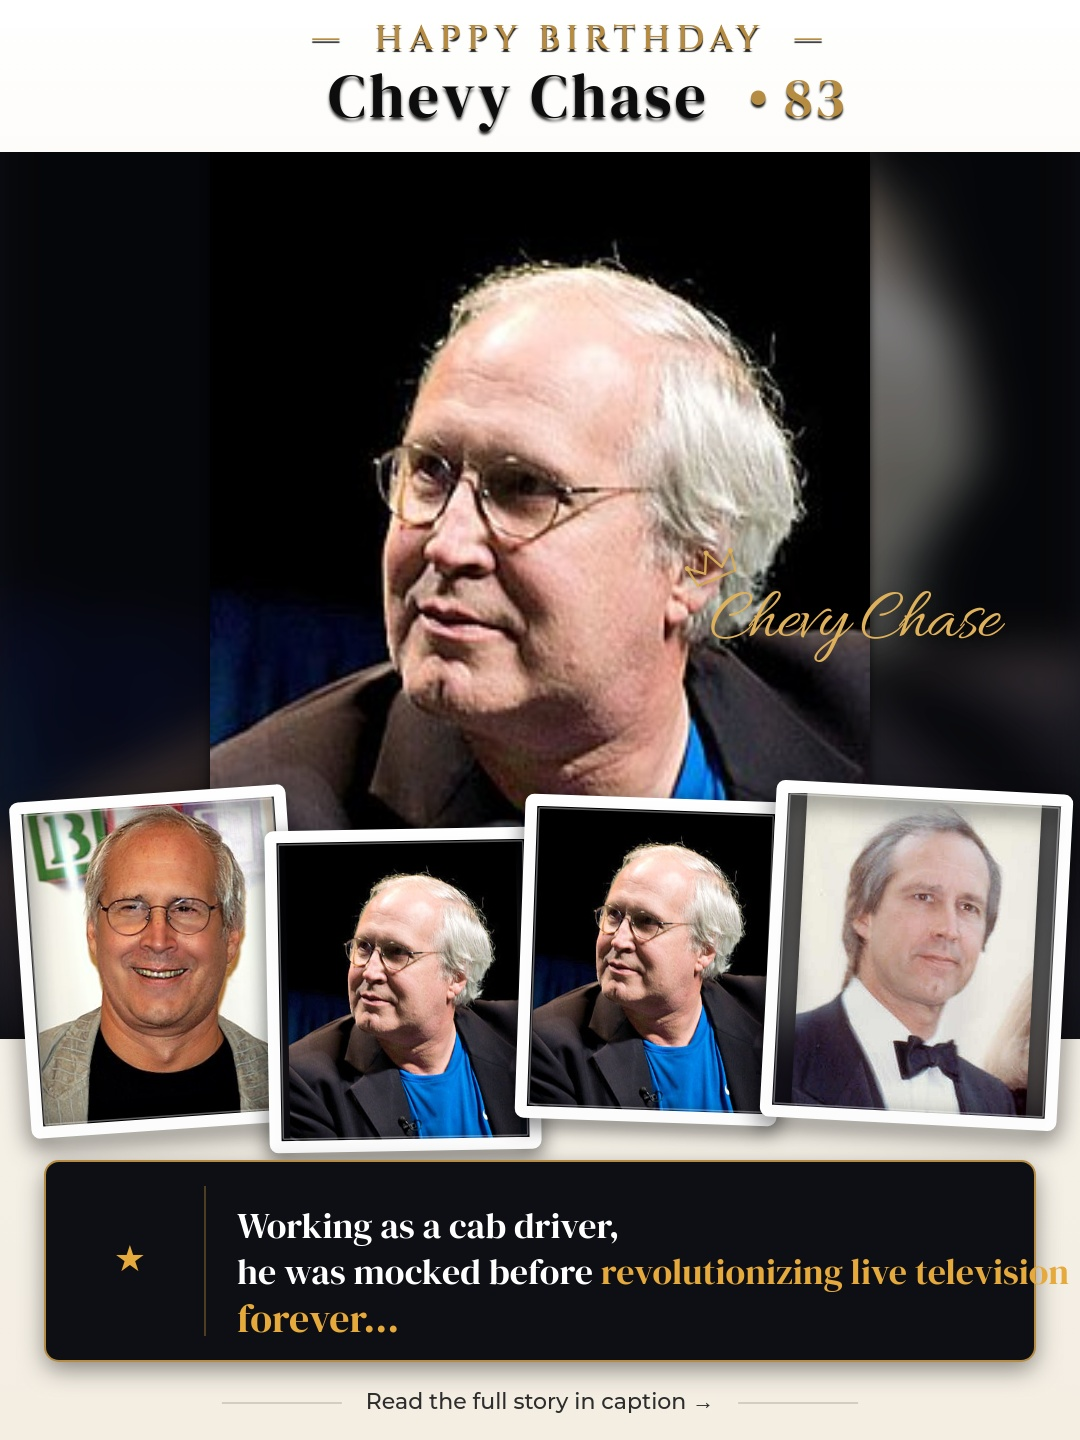
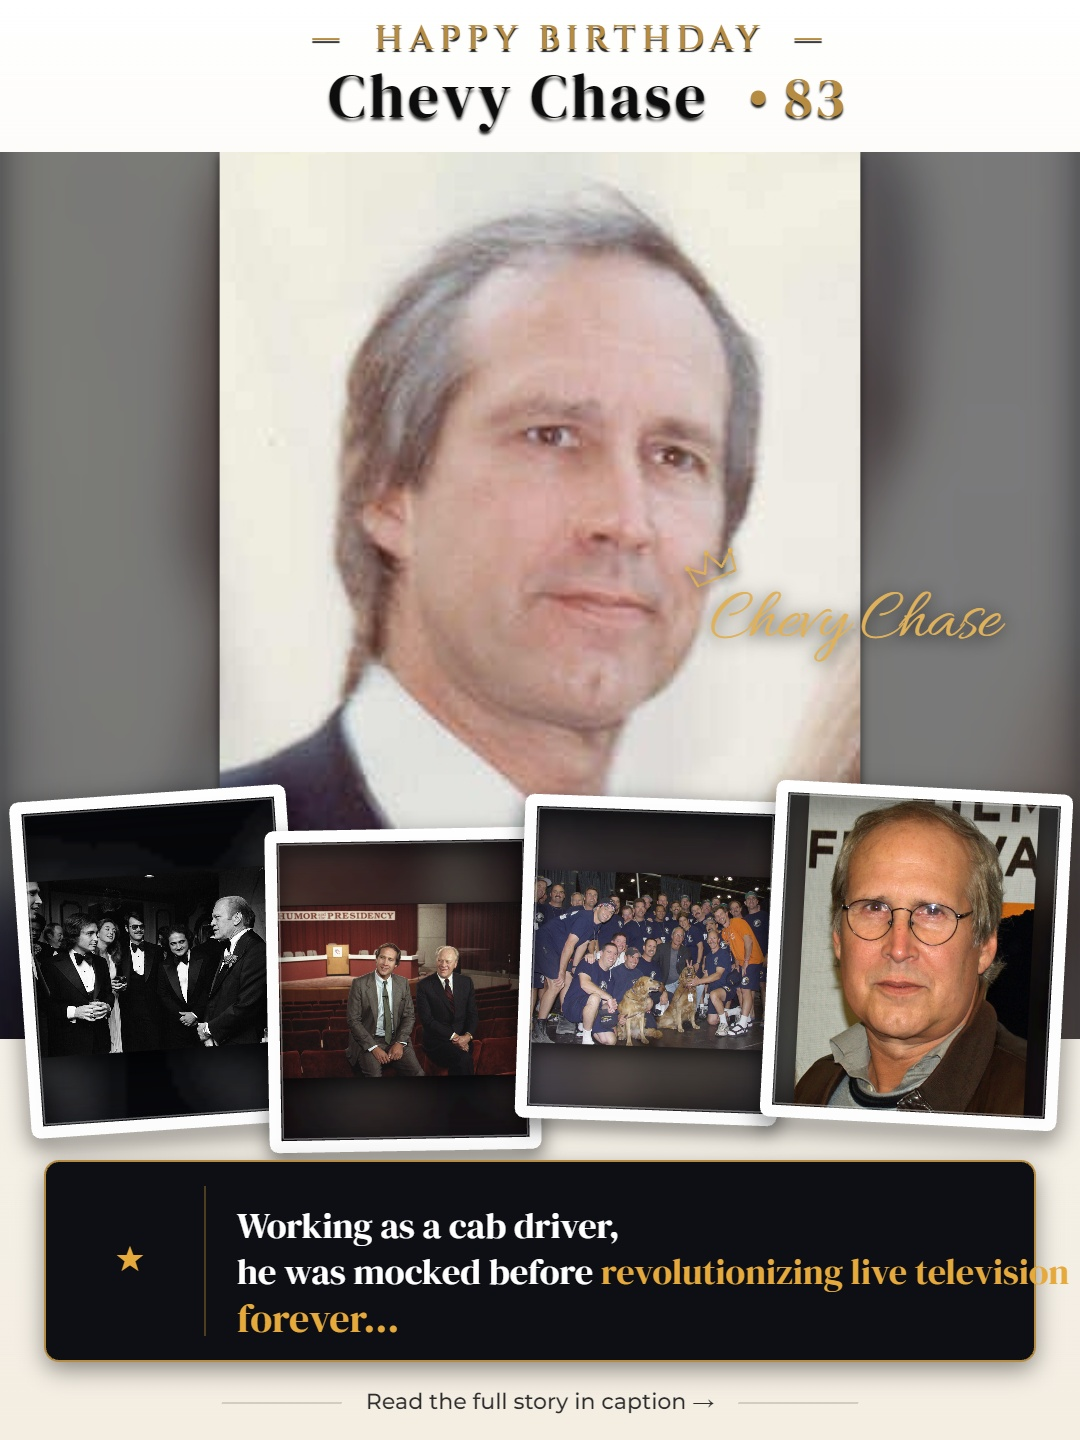
feat(collage): ensure 100% unique photos across 4 distinct career timeline eras

diff --git a/scripts/build_collage_studio.js b/scripts/build_collage_studio.js
@@ -133,51 +133,132 @@ function downloadAsDataUri(url) {
   });
 }
 
-// 2. Fetch real high-res Wikipedia photos for the celebrity
-async function fetchWikipediaPhotos(celebName) {
-  const clean = encodeURIComponent(celebName.replace(/ /g, '_'));
-  const urls = [];
+// 2. Fetch real high-res Wikipedia & Wikimedia Commons photos across different eras
+const NON_PERSON_KEYWORDS = [
+  'map', 'flag', 'chart', 'diagram', 'plan', 'locator', 'coat_of_arms', 'signature',
+  'autograph', 'grave', 'house', 'building', 'star', 'walk_of_fame', 'plaque', 'poster',
+  'cover', 'sound', 'video', 'screenshot', 'wax', 'car', 'aircraft', 'stamp', 'coin',
+  'billboard', 'street', 'statue', 'county', 'district', 'cdp', 'income', 'distribution',
+  'club', 'elementary', 'center', 'hot_shoppe', 'shoes', 'logo', 'icon', 'symbol',
+  'village', 'truck', 'bus', 'vehicle', 'traction', 'cd', 'album'
+];
 
-  // Thumbnail
-  try {
-    const data = await fetchJson(`https://en.wikipedia.org/w/api.php?action=query&titles=${clean}&prop=pageimages&format=json&pithumbsize=1000`);
-    if (data && data.query && data.query.pages) {
-      for (const pid of Object.keys(data.query.pages)) {
-        const thumb = data.query.pages[pid]?.thumbnail?.source;
-        if (thumb) urls.push(thumb);
-      }
-    }
-  } catch (e) {}
+function isCleanPersonPhoto(title, celebName = '') {
+  if (!title) return false;
+  const lower = title.toLowerCase();
+  if (!lower.endsWith('.jpg') && !lower.endsWith('.jpeg') && !lower.endsWith('.png') && !lower.endsWith('.webp')) return false;
+  for (const b of NON_PERSON_KEYWORDS) {
+    if (lower.includes(b)) return false;
+  }
+  if (celebName && celebName.toLowerCase().includes('chevy chase') && lower.includes('maryland')) {
+    return false;
+  }
+  return true;
+}
 
-  // Additional images
+function extractYear(title, dateStr) {
+  const combined = (title || '') + ' ' + (dateStr || '');
+  const m = combined.match(/\b(19\d\d|20\d\d)\b/);
+  return m ? parseInt(m[1]) : null;
+}
+
+function getEventSignature(title) {
+  return (title || '').toLowerCase()
+    .replace(/^file:/, '')
+    .replace(/\.(jpg|jpeg|png|webp)$/, '')
+    .replace(/cropped/g, '')
+    .replace(/crop/g, '')
+    .replace(/\(\d+\)/g, '')
+    .replace(/\d+/g, '')
+    .replace(/[-_().,]/g, ' ')
+    .trim()
+    .replace(/\s+/g, ' ');
+}
+
+async function fetchCelebrityTimelinePhotos(celebName, birthYear = null) {
+  const cleanName = celebName.replace(/\./g, '');
+  const searchTerms = [
+    cleanName,
+    celebName.replace(/\s+[A-Z]\.?\s+/g, ' '),
+    celebName
+  ];
+
+  const candidates = [];
+  const seenUrls = new Set();
+  const seenSignatures = new Set();
+
+  function sanitizeWikiUrl(u) {
+    if (!u || typeof u !== 'string') return null;
+    let s = u.replace('https://thumb.wikimedia.org/', 'https://upload.wikimedia.org/');
+    if (s.includes('commons.wikimedia.org/wiki/File:')) return null;
+    return s.split('?')[0];
+  }
+
+  function addCandidate(title, dateStr, url) {
+    if (!url || !isCleanPersonPhoto(title, celebName)) return;
+    const cleanU = sanitizeWikiUrl(url);
+    if (!cleanU || seenUrls.has(cleanU)) return;
+
+    const yr = extractYear(title, dateStr);
+    if (birthYear && yr && (yr < birthYear || yr > 2026)) return;
+
+    const sig = getEventSignature(title);
+    if (sig && seenSignatures.has(sig)) return;
+
+    seenUrls.add(cleanU);
+    if (sig) seenSignatures.add(sig);
+
+    candidates.push({ title, year: yr, sig, url: cleanU });
+  }
+
+  // A. Wikipedia Article Primary Portrait (with redirects=1)
   try {
-    const data2 = await fetchJson(`https://en.wikipedia.org/w/api.php?action=query&titles=${clean}&prop=images&format=json&imlimit=15`);
-    if (data2 && data2.query && data2.query.pages) {
-      for (const pid of Object.keys(data2.query.pages)) {
-        const images = data2.query.pages[pid]?.images || [];
-        for (const img of images) {
-          const title = img.title || '';
-          const lower = title.toLowerCase();
-          if ((lower.endsWith('.jpg') || lower.endsWith('.jpeg') || lower.endsWith('.png')) &&
-              !lower.includes('icon') && !lower.includes('logo') && !lower.includes('flag') && !lower.includes('symbol') && !lower.includes('stub')) {
-            const infoData = await fetchJson(`https://en.wikipedia.org/w/api.php?action=query&titles=${encodeURIComponent(title)}&prop=imageinfo&iiprop=url&iiurlwidth=800&format=json`);
-            if (infoData && infoData.query && infoData.query.pages) {
-              for (const ipid of Object.keys(infoData.query.pages)) {
-                const iinfo = infoData.query.pages[ipid]?.imageinfo?.[0];
-                const direct = iinfo?.thumburl || iinfo?.url;
-                if (direct && !urls.includes(direct)) {
-                  urls.push(direct);
-                  if (urls.length >= 8) break;
-                }
-              }
-            }
-          }
+    const pData = await fetchJson(`https://en.wikipedia.org/w/api.php?action=query&titles=${encodeURIComponent(celebName.replace(/ /g, '_'))}&prop=pageimages&redirects=1&format=json&pithumbsize=1200`);
+    if (pData?.query?.pages) {
+      for (const k of Object.keys(pData.query.pages)) {
+        const thumb = pData.query.pages[k]?.thumbnail?.source;
+        if (thumb) {
+          addCandidate(`${celebName} Wikipedia Portrait`, '2024', thumb);
         }
       }
     }
   } catch (e) {}
 
-  return urls;
+  // B. Commons Search with plain name (without quotes, broad file search)
+  for (const st of searchTerms) {
+    try {
+      const sData = await fetchJson(`https://commons.wikimedia.org/w/api.php?action=query&generator=search&gsrsearch=${encodeURIComponent(st)}&gsrnamespace=6&gsrlimit=40&prop=imageinfo&iiprop=url|extmetadata&iiurlwidth=900&format=json`);
+      if (sData?.query?.pages) {
+        for (const k of Object.keys(sData.query.pages)) {
+          const item = sData.query.pages[k];
+          const meta = item.imageinfo?.[0]?.extmetadata;
+          const date = meta?.DateTimeOriginal?.value || meta?.DateTime?.value;
+          const u = item.imageinfo?.[0]?.thumburl || item.imageinfo?.[0]?.url;
+          addCandidate(item.title || '', date, u);
+        }
+      }
+    } catch (e) {}
+    if (candidates.length >= 15) break;
+  }
+
+  // C. Commons Category Members
+  for (const st of searchTerms) {
+    try {
+      const cData = await fetchJson(`https://commons.wikimedia.org/w/api.php?action=query&generator=categorymembers&gcmtitle=Category:${encodeURIComponent(st)}&gcmnamespace=6&gcmlimit=50&prop=imageinfo&iiprop=url|extmetadata&iiurlwidth=900&format=json`);
+      if (cData?.query?.pages) {
+        for (const k of Object.keys(cData.query.pages)) {
+          const item = cData.query.pages[k];
+          const meta = item.imageinfo?.[0]?.extmetadata;
+          const date = meta?.DateTimeOriginal?.value || meta?.DateTime?.value;
+          const u = item.imageinfo?.[0]?.thumburl || item.imageinfo?.[0]?.url;
+          addCandidate(item.title || '', date, u);
+        }
+      }
+    } catch (e) {}
+    if (candidates.length >= 25) break;
+  }
+
+  return candidates;
 }
 
 function loadPreset(gender = 'female', presetName = null) {
@@ -263,35 +344,90 @@ async function main() {
 
     console.log(`\n[+] Post #${idx + 1}: ${celebName} (${gender.toUpperCase()}) -> ${imagePath}`);
 
-    // Download and verify photo data URIs in Node
-    const validDataUris = [];
+    // 1. Fetch rich multi-era photos from Wikipedia, Commons Search & Categories
+    const timelineCandidates = await fetchCelebrityTimelinePhotos(celebName, birthYear);
+
+    // 2. Also incorporate incoming raw photo URLs if valid
+    const seenRawUrls = new Set(timelineCandidates.map(c => c.url));
     for (const u of rawPhotoUrls) {
-      const dataUri = await downloadAsDataUri(u);
-      if (dataUri) validDataUris.push(dataUri);
+      if (!u || typeof u !== 'string') continue;
+      const cleanU = u.replace('https://thumb.wikimedia.org/', 'https://upload.wikimedia.org/').split('?')[0];
+      if (cleanU.includes('commons.wikimedia.org/wiki/File:')) continue;
+      if (!seenRawUrls.has(cleanU) && isCleanPersonPhoto(cleanU, celebName)) {
+        seenRawUrls.add(cleanU);
+        const yr = extractYear(cleanU, '');
+        timelineCandidates.push({ title: cleanU, year: yr, sig: getEventSignature(cleanU), url: cleanU });
+      }
     }
 
-    // If few or zero valid photos, fetch authentic Wikipedia photos
-    if (validDataUris.length < 3) {
-      console.log(`    Provided URLs had ${validDataUris.length} working photos. Fetching Wikipedia photos for ${celebName}...`);
-      const wikiUrls = await fetchWikipediaPhotos(celebName);
-      for (const wu of wikiUrls) {
-        const dUri = await downloadAsDataUri(wu);
-        if (dUri) {
-          validDataUris.push(dUri);
-          if (validDataUris.length >= 8) break;
+    // 3. Download and verify valid data URIs
+    const downloadedCandidates = [];
+    const seenData = new Set();
+    for (const cand of timelineCandidates) {
+      const dataUri = await downloadAsDataUri(cand.url);
+      if (dataUri) {
+        const fingerprint = dataUri.slice(100, 300);
+        if (!seenData.has(fingerprint)) {
+          seenData.add(fingerprint);
+          downloadedCandidates.push({ ...cand, dataUri, fingerprint });
+        }
+      }
+      if (downloadedCandidates.length >= 15) break;
+    }
+
+    console.log(`    Found ${downloadedCandidates.length} decoded photos for ${celebName}.`);
+
+    // 4. Designate Hero Portrait (Cleanest headshot)
+    const heroItem = downloadedCandidates[0] || null;
+
+    // 5. Exclude Hero from Polaroid Pool to guarantee 100% distinct images
+    const polaroidPool = downloadedCandidates.filter(c => !heroItem || (c.url !== heroItem.url && c.fingerprint !== heroItem.fingerprint));
+
+    // 6. Chronological sorting across career timeline
+    const datedPolaroids = polaroidPool.filter(c => c.year).sort((a, b) => a.year - b.year);
+    const undatedPolaroids = polaroidPool.filter(c => !c.year);
+
+    // Pick 4 distinct milestone eras with minimum 2-3 years gap
+    const selectedMilestones = [];
+    let lastEraYear = 0;
+    for (const dp of datedPolaroids) {
+      if (!lastEraYear || Math.abs(dp.year - lastEraYear) >= 3) {
+        selectedMilestones.push(dp);
+        lastEraYear = dp.year;
+        if (selectedMilestones.length === 4) break;
+      }
+    }
+
+    // If still need more to reach 4 polaroids, fill from remaining dated then undated
+    if (selectedMilestones.length < 4) {
+      for (const dp of datedPolaroids) {
+        if (!selectedMilestones.find(m => m.fingerprint === dp.fingerprint)) {
+          selectedMilestones.push(dp);
+          if (selectedMilestones.length === 4) break;
+        }
+      }
+    }
+    if (selectedMilestones.length < 4) {
+      for (const up of undatedPolaroids) {
+        if (!selectedMilestones.find(m => m.fingerprint === up.fingerprint)) {
+          selectedMilestones.push(up);
+          if (selectedMilestones.length === 4) break;
         }
       }
     }
 
-    console.log(`    [✓] Successfully prepared ${validDataUris.length} active high-res photo frames.`);
+    // 7. Assemble 5 Frame Photos: Frame 0 (Hero), Frames 1-4 (Chronological Milestones)
+    const finalFramePhotos = [
+      heroItem ? heroItem.dataUri : null,
+      ...selectedMilestones.slice(0, 4).map(m => m.dataUri)
+    ];
 
-    // Distribute photos across all 8 frames
-    const finalFramePhotos = [];
-    if (validDataUris.length > 0) {
-      for (let fIdx = 0; fIdx < 8; fIdx++) {
-        finalFramePhotos.push(validDataUris[fIdx % validDataUris.length]);
-      }
-    }
+    console.log(`    [✓] Assigned 5 Frame Photos:`);
+    console.log(`        - Frame 0 (Hero): ${heroItem?.title || 'Main'} [Year: ${heroItem?.year || 'N/A'}]`);
+    selectedMilestones.slice(0, 4).forEach((m, mIdx) => {
+      console.log(`        - Frame ${mIdx + 1} (Milestone ${mIdx + 1}): ${m.title} [Year: ${m.year || 'N/A'}]`);
+    });
+    console.log(`        - Guaranteed Unique Frames: ${new Set(finalFramePhotos.filter(Boolean)).size} / 5`);
 
     const presetData = loadPreset(gender, post.preset || post.preset_name);
     if (post.teaserCard) {
